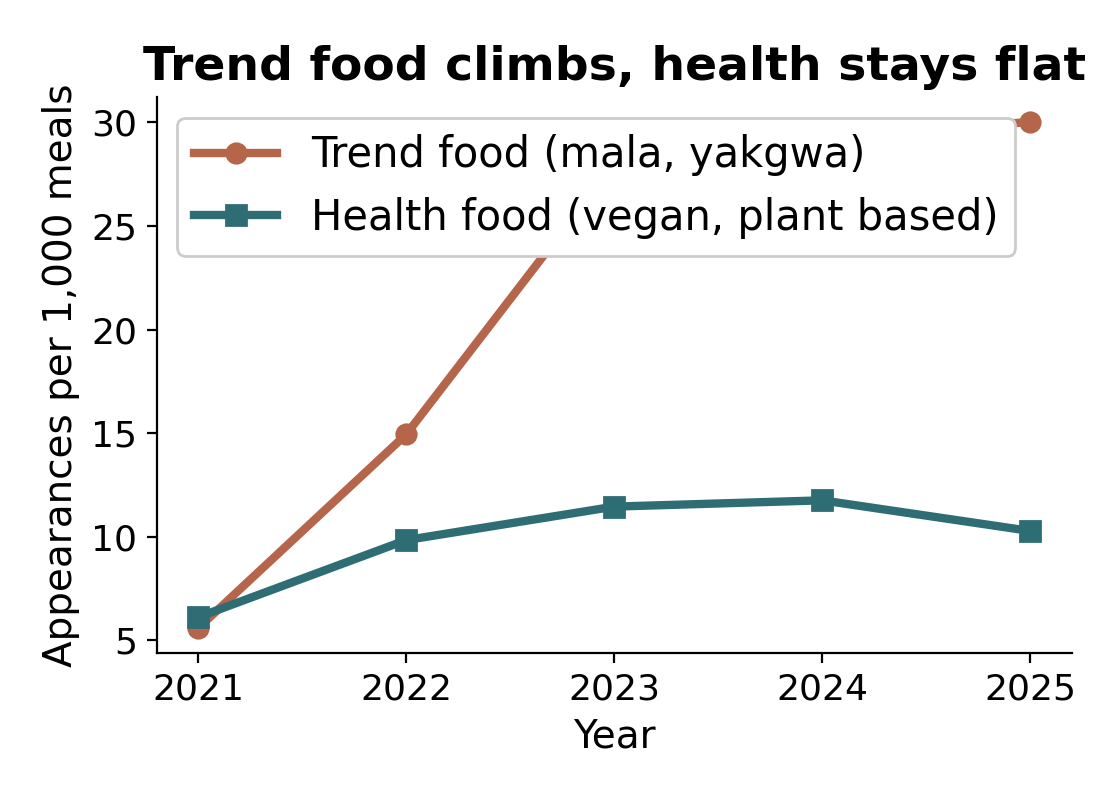
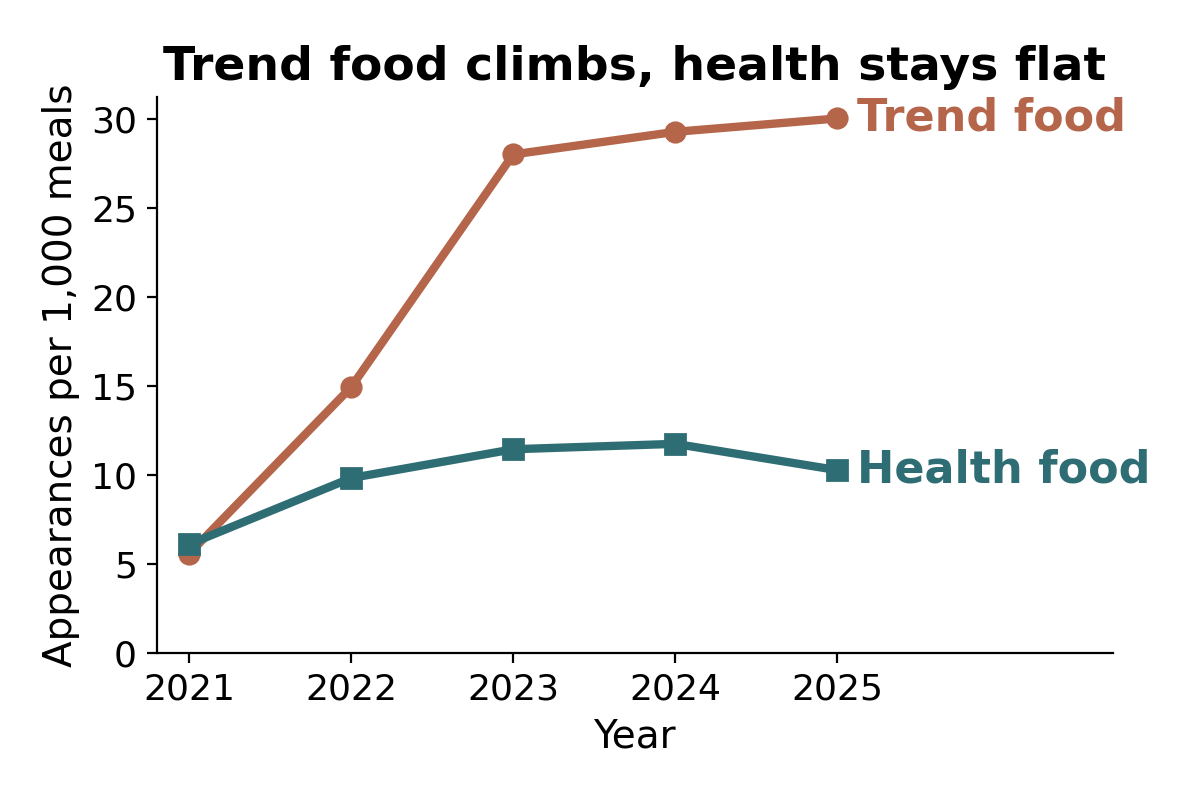
style(poster): form/institution/space 단일 쿨톤 + FastText 강조 + 경쟁 plot 범례 제거
피드백: (1) form·institution·space 프레이밍을 단일 쿨톤(steel-blue #345b7a)으로 통일
(hook·발견 액센트·빅넘버·verdict). 그림 데이터 색(terracotta/teal)은 데이터 구분용으로 유지.
(2) 'Trend food climbs' plot의 범례가 곡선을 가려서 범례 박스 제거하고 선 끝 직접 라벨로.
(3) FastText를 칩으로 강조하고 설명을 키워드 한 줄로 압축('word embedding · no hand-picked
keywords · one root word finds every spelling'), 방법론 폰트 상향. A1 1페이지.

diff --git a/poster_outline.html b/poster_outline.html
@@ -7,7 +7,7 @@
   @page { size: A1; margin: 0; }
   :root{
     --ink:#1b1b1b; --muted:#555; --line:#cfcfcf; --box:#eef1f4;
-    --trend:#b5654a; --health:#2f6d74; --gis:#44476a; --paper:#fff;
+    --trend:#345b7a; --health:#345b7a; --gis:#345b7a; --paper:#fff;
   }
   *{box-sizing:border-box;}
   html,body{margin:0; background:#888;}
@@ -46,8 +46,10 @@
 
   /* method box: clearer embedding visual */
   .methodbox{border:2px solid var(--gis); padding:14pt 18pt;}
-  .methodbox h3{font-size:26pt; color:var(--gis);}
-  .methodbox p{font-size:20pt; margin:6pt 0;}
+  .methodbox h3{font-size:28pt; color:var(--gis);}
+  .methodbox p{font-size:22pt; margin:6pt 0;}
+  .ftline{font-size:23pt; margin:9pt 0;}
+  .ft{background:var(--gis); color:#fff; font-weight:bold; padding:3pt 13pt; border-radius:5pt; font-size:25pt;}
   .expand{display:flex; align-items:center; gap:12pt; flex-wrap:wrap; margin:8pt 0;
           background:var(--box); padding:9pt 14pt; border-radius:4pt;}
   .root{background:var(--gis); color:#fff; font-weight:bold; font-size:24pt; padding:8pt 16pt; border-radius:4pt;}
@@ -91,9 +93,9 @@
       <span class="small">Jeonbuk is left out because its data start only in 2024.</span></p>
 
     <div class="methodbox">
-      <h3>How do you find a trend food in two million menu lines?</h3>
-      <p>We did not pick keywords by hand. A FastText word embedding learns which menu names mean similar
-      things. It then grows each root word into every spelling that appears on real menus.</p>
+      <h3>How do we read 2 million menu lines?</h3>
+      <p class="ftline"><span class="ft">FastText</span> word embedding &middot; no hand-picked keywords
+      &middot; one root word finds every spelling</p>
       <div class="expand">
         <span class="root">mala</span>
         <span class="arrow">&rarr;</span>

diff --git a/poster_figs_en.py b/poster_figs_en.py
@@ -92,12 +92,17 @@ def fig_mara_share(m, fad_kw):
 # 2) competition ------------------------------------------------------------
 def fig_compete(m, fad_kw, heal_kw):
     fad = natrate(m, fad_kw); heal = natrate(m, heal_kw)
-    fig, ax = plt.subplots(figsize=(5.6, 4.0))
-    ax.plot(YEARS, fad.values, "-o", color=T, lw=3, ms=7, label="Trend food (mala, yakgwa)")
-    ax.plot(YEARS, heal.values, "-s", color=H, lw=3, ms=7, label="Health food (vegan, plant based)")
-    ax.set_xticks(YEARS); ax.set_xlabel("Year"); ax.set_ylabel("Appearances per 1,000 meals")
+    fig, ax = plt.subplots(figsize=(6.0, 4.0))
+    ax.plot(YEARS, fad.values, "-o", color=T, lw=3, ms=7)
+    ax.plot(YEARS, heal.values, "-s", color=H, lw=3, ms=7)
+    # label lines directly at their right end (no legend box to cover the curve)
+    ax.annotate("Trend food", (2025, fad[2025]), xytext=(7, 0), textcoords="offset points",
+                va="center", fontsize=16, color=T, fontweight="bold")
+    ax.annotate("Health food", (2025, heal[2025]), xytext=(7, 0), textcoords="offset points",
+                va="center", fontsize=16, color=H, fontweight="bold")
+    ax.set_xticks(YEARS); ax.set_xlim(2020.8, 2026.7); ax.set_ylim(bottom=0)
+    ax.set_xlabel("Year"); ax.set_ylabel("Appearances per 1,000 meals")
     ax.set_title("Trend food climbs, health stays flat", fontsize=17)
-    _legend(ax)
     for s in ["top", "right"]:
         ax.spines[s].set_visible(False)
     _save(fig, "en_compete.png")